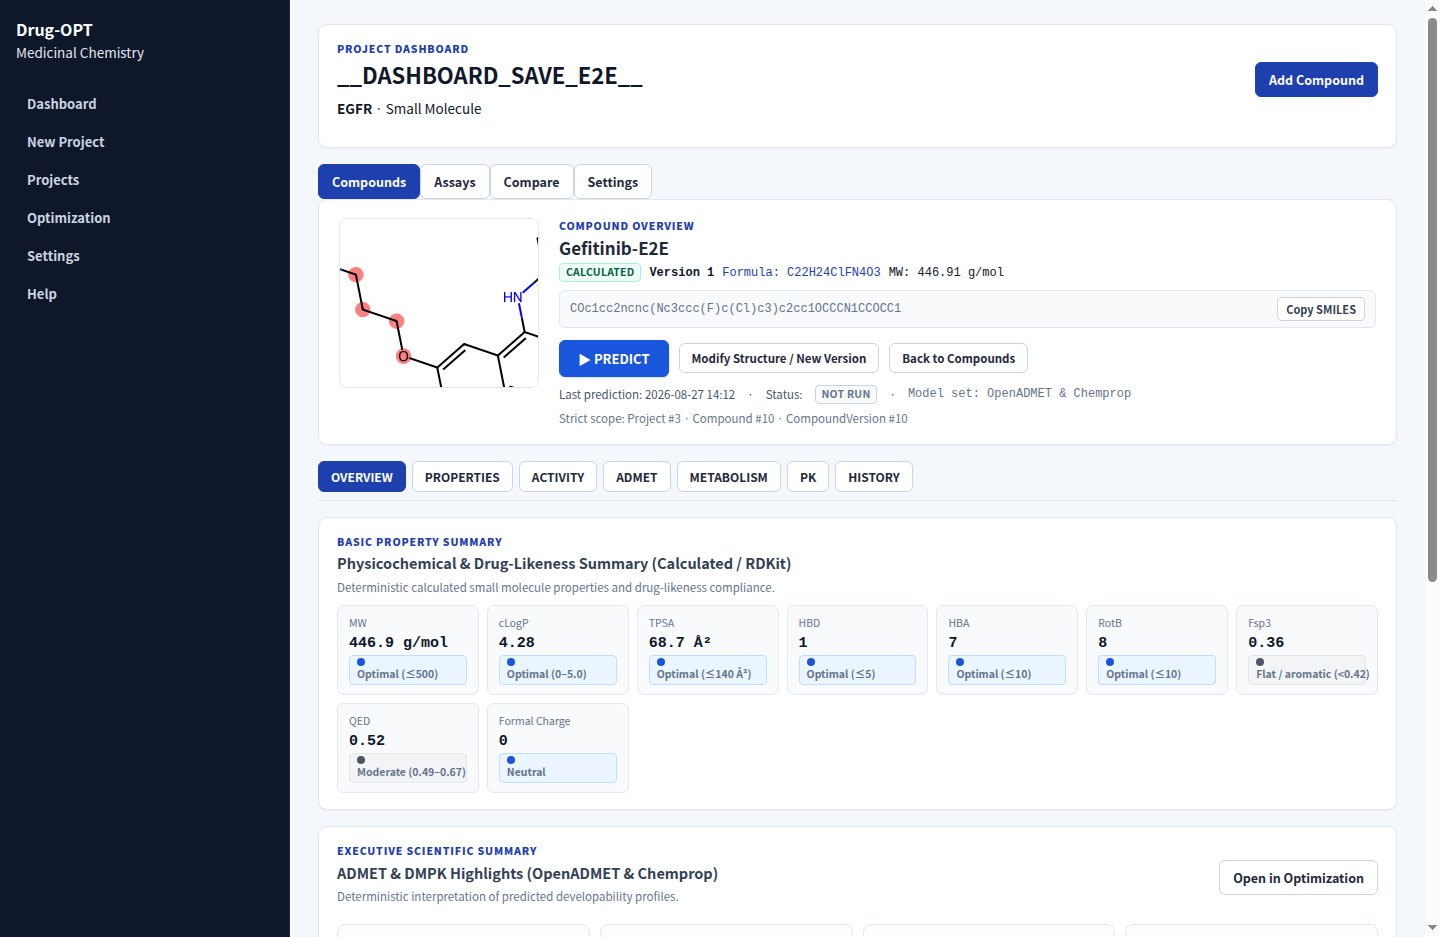
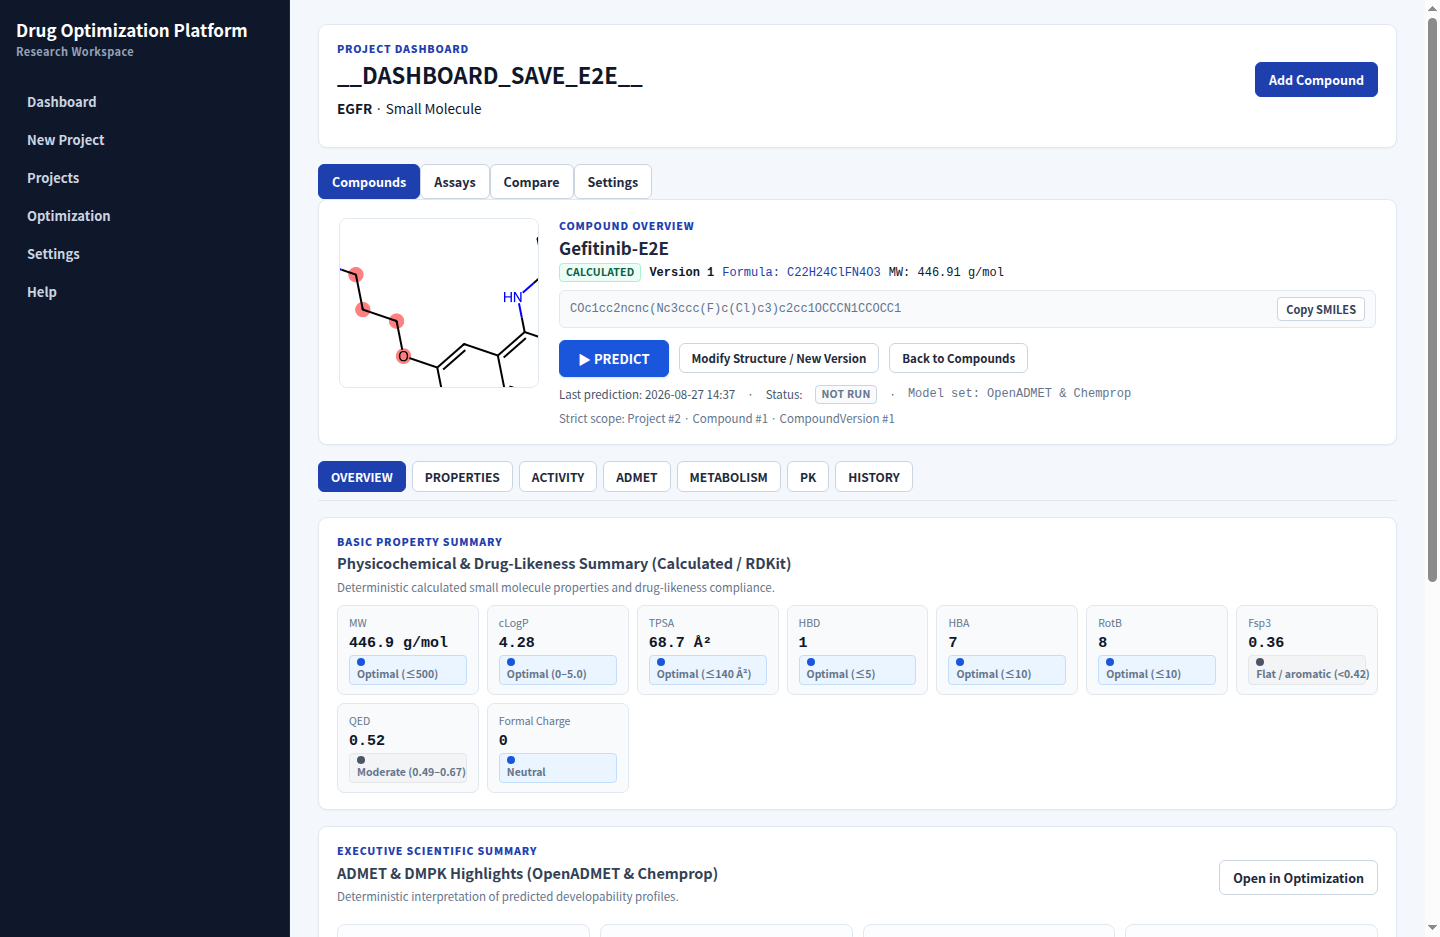
fix(ui): improve project loading resilience, sidebar brand layout, and live structure preview

diff --git a/frontend/static/app.js b/frontend/static/app.js
@@ -334,6 +334,7 @@ function App(){
  const [form,setForm]=useState({name:'',target:'',molecule_type:'Small Molecule',description:''});
  const [compoundForm,setCompoundForm]=useState({compound_id:'',name:'',smiles:'',notes:''}),[addCompoundOpen,setAddCompoundOpen]=useState(false),[savingCompound,setSavingCompound]=useState(false);
  const [preview,setPreview]=useState(null),[selected,setSelected]=useState([]),[comparison,setComparison]=useState(null),[detail,setDetail]=useState(null),[message,setMessage]=useState('');
+ const previewRequest=useRef(0);
  const [projectTab,setProjectTab]=useState('dashboard'),[detailTab,setDetailTab]=useState('overview');
  const [admet,setAdmet]=useState(null),[admetVersionId,setAdmetVersionId]=useState(''),[admetForm,setAdmetForm]=useState({...EMPTY_ADMET_FORM});
  const [admetCsv,setAdmetCsv]=useState(''),[admetCsvPreview,setAdmetCsvPreview]=useState(null),[admetBusy,setAdmetBusy]=useState(false);
@@ -370,17 +371,29 @@ function App(){
  };
  const endpointName=endpointId=>(admet?.endpoints||[]).find(item=>item.id===endpointId)?.name||endpointId;
 
- const loadProjects=async()=>{
-  const rows=await api.get('/projects');setProjects(rows);
-  if(rows.length&&!projectId)setProjectId(rows[0].id);
- };
- const loadDashboard=async()=>{const data=await api.get('/dashboard');setDashboard(data);return data};
- const loadHelpRegistry=async()=>{setHelpBusy(true);try{const data=await api.get('/help/registry');setHelpRegistry(data);return data}finally{setHelpBusy(false)}};
- const loadProject=async id=>{
-  const data=await api.get('/projects/'+id);setProject(data);
-  setAdmetVersionId(current=>data.compounds.some(item=>item.version?.id===Number(current))?current:(data.compounds.find(item=>item.version)?.version.id||''));
-  return data;
- };
+  const loadProjects=async()=>{
+   const rows=await api.get('/projects');setProjects(rows);
+   if(rows.length>0){
+    if(!projectId||!rows.some(r=>r.id===Number(projectId))){
+     setProjectId(rows[0].id);
+    }
+   }else{
+    setProjectId(null);setProject(null);
+   }
+  };
+  const loadDashboard=async()=>{const data=await api.get('/dashboard');setDashboard(data);return data};
+  const loadHelpRegistry=async()=>{setHelpBusy(true);try{const data=await api.get('/help/registry');setHelpRegistry(data);return data}finally{setHelpBusy(false)}};
+  const loadProject=async id=>{
+   if(!id){setProject(null);return null;}
+   try{
+    const data=await api.get('/projects/'+id);setProject(data);
+    setAdmetVersionId(current=>data.compounds?.some(item=>item.version?.id===Number(current))?current:(data.compounds?.find(item=>item.version)?.version.id||''));
+    return data;
+   }catch(err){
+    setProject(null);
+    return null;
+   }
+  };
  const loadAdmet=async(id=projectId)=>{
   if(!id)return null;
   const data=await api.get('/projects/'+id+'/admet');setAdmet(data);return data;
@@ -522,18 +535,19 @@ function App(){
  useEffect(()=>{
   if(!addCompoundOpen||project?.molecule_type!=='Small Molecule')return;
   const sm=(compoundForm.smiles||'').trim();
+  const requestId=++previewRequest.current;
   if(!sm){setPreview(null);return}
   const timer=setTimeout(async()=>{
    try{
     const result=await api.post('/structure/validate',{smiles:sm});
-    if(result&&result.valid){
+    if(requestId===previewRequest.current&&result&&result.valid){
      setPreview(result);
     }
    }catch(_){
-    /* invalid or typing in progress */
+    if(requestId===previewRequest.current)setPreview(null);
    }
-  },250);
-  return ()=>clearTimeout(timer);
+  },180);
+  return ()=>{clearTimeout(timer);};
  },[addCompoundOpen,project?.molecule_type,compoundForm.smiles]);
 
  const loadSmilesIntoEditor=async()=>{
@@ -4187,9 +4201,9 @@ function App(){
   const sidebarItems=[['Dashboard',()=>goDashboard(),'dashboard'],['New Project',()=>openGlobalView('new-project'),'new-project'],['Projects',()=>openGlobalView('projects'),'projects'],['Optimization',openOptimizationOverview,'optimization'],['Settings',openSettings,'settings'],['Help',()=>openGlobalView('help'),'help']];
   const sidebar=e('aside',{className:'sidebar'+(sidebarOpen?' open':''),key:'sidebar'},[
    e('div',{className:'sidebar-head',key:'head'},[
-    e('div',{},[
-     e('button',{className:'brand-button',onClick:goDashboard},'Drug-OPT'),
-     e('div',{className:'tag'},'Medicinal Chemistry')
+    e('div',{className:'brand-lockup'},[
+     e('button',{className:'brand-button',onClick:goDashboard},'Drug Optimization Platform'),
+     e('div',{className:'sidebar-tag'},'Research Workspace')
     ]),
     e('button',{className:'menu-toggle',onClick:()=>setSidebarOpen(value=>!value),'aria-expanded':sidebarOpen,'aria-label':'Toggle primary navigation'},sidebarOpen?'Close':'Menu')
    ]),
@@ -4197,9 +4211,9 @@ function App(){
     e('nav',{className:'global-nav',key:'nav','aria-label':'Primary navigation'},sidebarItems.map(([label,action,view])=>e('button',{key:label,className:(projectTab==='dashboard'&&globalView===view)||(projectTab===view)?'active':'',onClick:action},label)))
    ]),
     e('div',{className:'sidebar-footer',key:'footer'},[
-     e('div',{className:'brand-title'},'Drug-OPT'),
-     e('div',{className:'version-badge'},'v0.6.3-stage5b4-ui'),
-     e('div',{className:'update-date'},'Updated: 2026-08-27')
+    e('div',{className:'sidebar-footer-brand'},'Drug Optimization Platform'),
+    e('div',{className:'sidebar-footer-version'},'v0.6.3-stage5b4-ui'),
+    e('div',{className:'sidebar-footer-date'},'Updated: 2026-08-27')
     ])
   ]);
   return e('div',{className:'shell'},[sidebar,e('main',{className:'content',key:'content'},[

diff --git a/frontend/static/app.css b/frontend/static/app.css
@@ -93,13 +93,15 @@ p { margin: 0 0 8px; font-size: 13px; font-family: var(--font-ui); }
   gap: 8px;
 }
 
+.brand-lockup { min-width: 0; }
+
 .brand-button {
   border: 0;
   background: transparent;
   color: #fff;
   padding: 0;
   font-family: var(--font-ui);
-  font-size: 16px;
+  font-size: 17px;
   font-weight: 750;
   line-height: 1.2;
   margin: 0 0 3px;
@@ -107,7 +109,12 @@ p { margin: 0 0 8px; font-size: 13px; font-family: var(--font-ui); }
   cursor: pointer;
 }
 .brand-button:hover { text-decoration: underline; }
-.sidebar-tag { color: #94a3b8; font-size: 11px; }
+.sidebar-tag {
+  color: #94a3b8;
+  font-size: 11px;
+  font-weight: 600;
+  letter-spacing: .035em;
+}
 
 .sidebar-body {
   margin-top: 24px;
@@ -143,6 +150,7 @@ p { margin: 0 0 8px; font-size: 13px; font-family: var(--font-ui); }
 .global-nav > button.active {
   background: #1e3a8a;
   color: #fff;
+  box-shadow: inset 3px 0 0 #60a5fa;
 }
 
 .menu-toggle {
@@ -1003,4 +1011,3 @@ td.num, th.num { text-align: right; font-variant-numeric: tabular-nums; }
 .ivive-source-calc { border-left: 3px solid #059669; }
 .ivive-source-user-override { border-left: 3px solid #d97706; }
 .ivive-comparison { margin-top: 12px; }
-

diff --git a/scripts/stage5b4_v3_browser_e2e.py b/scripts/stage5b4_v3_browser_e2e.py
@@ -83,14 +83,14 @@ def main():
         print("\n--- STEP 1: Verifying Main Dashboard Redesign ---")
         driver.get(BASE_URL)
         WebDriverWait(driver, 20).until(EC.presence_of_element_located((By.CLASS_NAME, "dashboard-hero")))
-        WebDriverWait(driver, 20).until(EC.presence_of_element_located((By.CLASS_NAME, "scientific-card")))
-        time.sleep(1)
+        WebDriverWait(driver, 20).until(EC.presence_of_element_located((By.CLASS_NAME, "sidebar-footer")))
+        time.sleep(0.5)
 
         # Verify Sidebar
         sidebar = driver.find_element(By.CLASS_NAME, "sidebar")
         assert sidebar.is_displayed(), "Sidebar is not visible"
         sidebar_text = sidebar.text
-        assert "Drug-OPT" in sidebar_text, "Brand title missing in sidebar"
+        assert "Drug Optimization Platform" in sidebar_text or "Drug-OPT" in sidebar_text, "Brand title missing in sidebar"
         assert "v0.6.3-stage5b4-ui" in sidebar_text, "v0.6.3-stage5b4-ui missing in sidebar footer"
         assert "Updated: 2026-08-27" in sidebar_text, "Updated date missing in sidebar footer"
         print("✓ Sidebar and footer version verified (v0.6.3-stage5b4-ui).")
